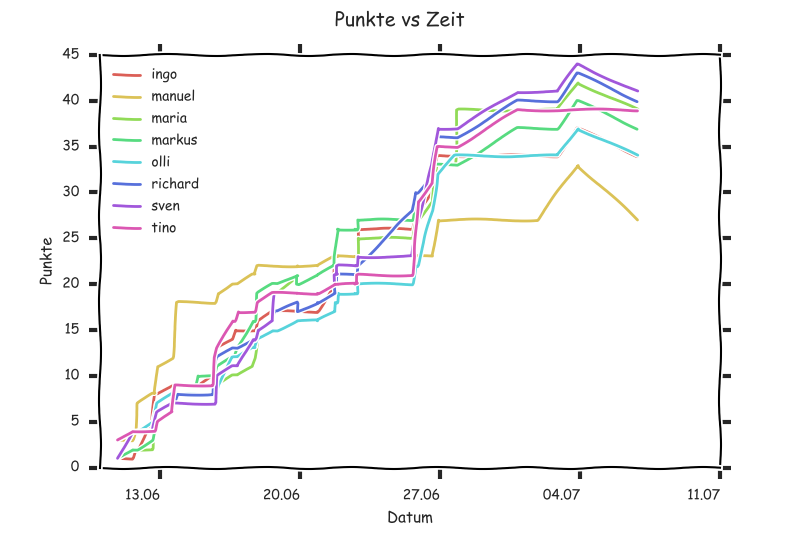
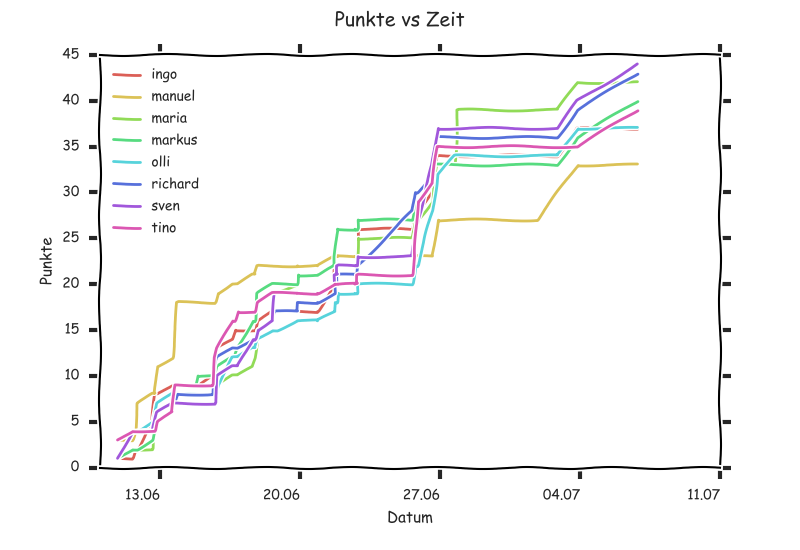
sorting bug

diff --git a/tippspiel.py b/tippspiel.py
@@ -104,8 +104,8 @@ def round_to_df(rn):
     times = [time(a['time']) for a in results.values()]
     columns = pd.MultiIndex.from_product([all_tipps.keys(), ['score', 'tipp']])
     df = pd.DataFrame(columns=columns, index=[matches, times])
-
     for game, game_data in results.items():
+
             game_scores = {(player, 'score'): ROUND_MULTIPLICATOR[rn] * score(players_tipp[game], game_data['result'])
                           for player, players_tipp in all_tipps.items()}
 
@@ -113,11 +113,12 @@ def round_to_df(rn):
 
             df.loc[game, time(game_data['time'])] = {**game_tipps, **game_scores}
 
-    return df.swaplevel().sort_index().sort_index(axis=1)
+    return df
 
 
 def get_all_rounds():
-    return pd.concat([round_to_df(rn) for rn in ROUND_MULTIPLICATOR.keys() if os.path.isfile(get_fname(rn))])
+    df = pd.concat([round_to_df(rn) for rn in ROUND_MULTIPLICATOR.keys() if os.path.isfile(get_fname(rn))])
+    return df.swaplevel().sort_index().sort_index(axis=1)
 
 
 def next_games_tipps(df):
@@ -126,6 +127,7 @@ def next_games_tipps(df):
 
 
 def update_plots(df):
+
     plotdf = df.swaplevel(axis=1)['score']
 
     sns.set_style('white')
